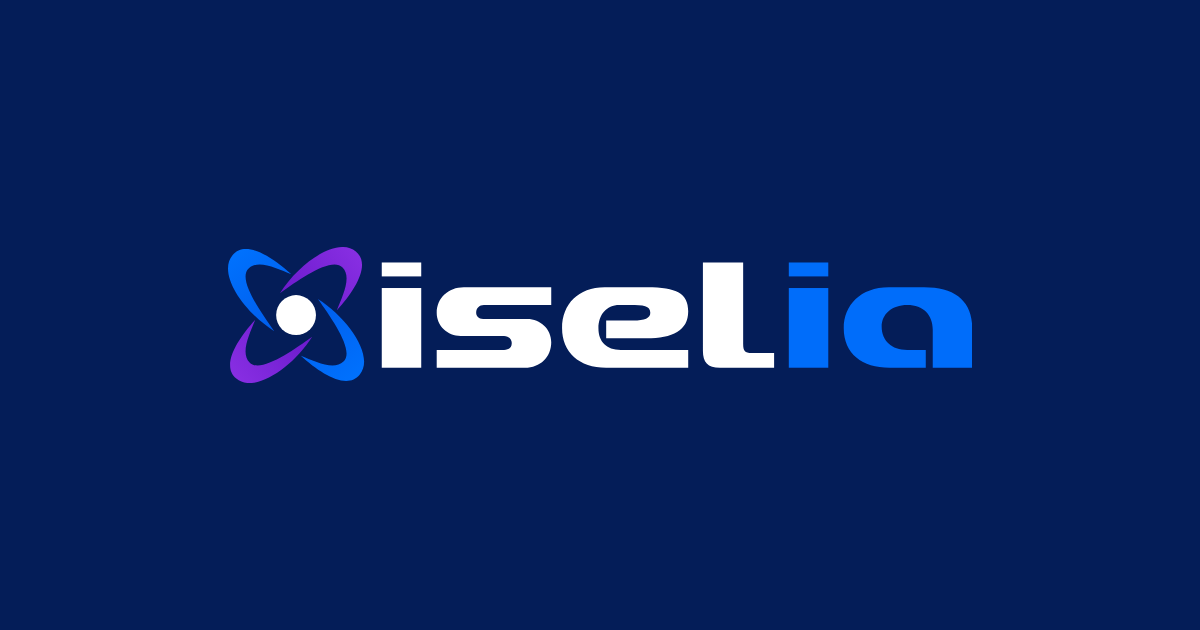
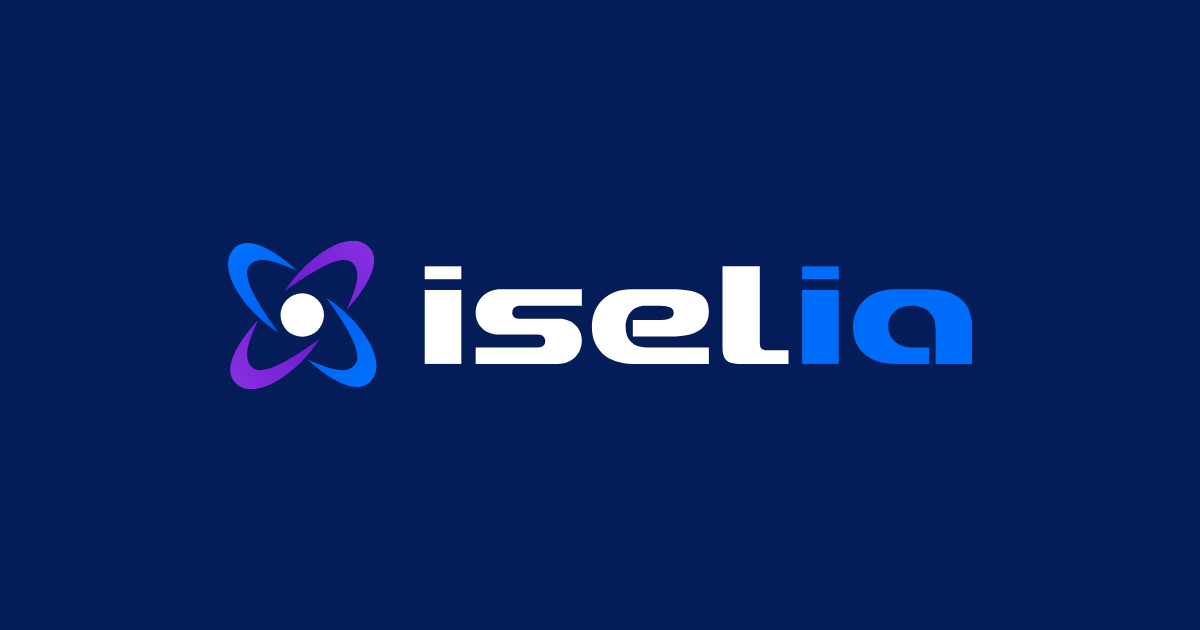
Shrink the wordmark and open the gap in the horizontal lockup
The master's proportions put the wordmark too large and too close to the
pictogram for the owner's taste, so the lockup now shrinks the wordmark
15% relative to the symbol and opens the gap 2.5x.

This is a deliberate departure from the page-5 art, not a new
measurement, and the generator says so: the measured values stay as
SYM_OVER_WM_H_MANUAL and GAP_OVER_SYM_MANUAL, and WM_SHRINK / GAP_FACTOR
are applied on top. Setting both factors to 1 returns to the manual
without recomputing anything.

The lockup ratio moves from 5.4688:1 to 5.0132:1, so the width/height
attributes on all twelve <img> tags across the four pages move with it:
nav 150x30, footer 125x25. Regenerated assets: the three lockup SVGs and
the og:image. The favicons are byte-identical, being symbol-only.

One manual violation goes away with it. The symbol side equals the
lockup height, so the footer at 125px now yields a 25px symbol, above
the 24px floor it was failing at 23px. Mobile at 113px is still under at
22px, up from 21px.

Also fixes the asset build hanging indefinitely. chrome_png pointed HOME
at a temp directory to isolate the browser profile; Chrome hangs forever
initialising a fresh profile on this machine, and does the same with an
explicit --user-data-dir, so any new profile is the trigger, not HOME as
such. With the existing profile it renders in tenths of a second. The
override is gone and a 60s timeout is in place so a hang like that fails
[…]

Changed region(s): [[0.185, 0.3619, 0.8017, 0.6333]]

diff --git a/index.html b/index.html
@@ -130,8 +130,8 @@
 <!-- NAV -->
 <nav id="navbar">
   <a href="#" class="nav-logo" aria-label="Iselia">
-    <img class="logo-light" src="assets/iselia-lockup-horizontal-color.svg" alt="Iselia" width="150" height="27" />
-    <img class="logo-dark" src="assets/iselia-lockup-horizontal-oscuro.svg" alt="" aria-hidden="true" width="150" height="27" />
+    <img class="logo-light" src="assets/iselia-lockup-horizontal-color.svg" alt="Iselia" width="150" height="30" />
+    <img class="logo-dark" src="assets/iselia-lockup-horizontal-oscuro.svg" alt="" aria-hidden="true" width="150" height="30" />
   </a>
   <button class="nav-mobile-btn" id="mobileToggle" aria-label="Menú"><svg xmlns="http://www.w3.org/2000/svg" viewBox="0 0 24 24" fill="none" stroke="currentColor" stroke-width="2" stroke-linecap="round" stroke-linejoin="round" aria-hidden="true"><line x1="4" y1="6" x2="20" y2="6"/><line x1="4" y1="12" x2="20" y2="12"/><line x1="4" y1="18" x2="20" y2="18"/></svg></button>
   <ul class="nav-links" id="navLinks">
@@ -518,7 +518,7 @@
 <!-- FOOTER -->
 <footer>
   <div class="footer-logo">
-    <img src="assets/iselia-lockup-horizontal-mono.svg" alt="Iselia" width="125" height="23" />
+    <img src="assets/iselia-lockup-horizontal-mono.svg" alt="Iselia" width="125" height="25" />
   </div>
   <p data-i18n="footer-copy">© 2026 Iselia Networks, SLU · Todos los derechos reservados</p>
   <p class="footer-legal">

diff --git a/aviso-legal.html b/aviso-legal.html
@@ -67,8 +67,8 @@
 <!-- NAV -->
 <nav id="navbar">
   <a href="index.html" class="nav-logo" aria-label="Iselia">
-    <img class="logo-light" src="assets/iselia-lockup-horizontal-color.svg" alt="Iselia" width="150" height="27" />
-    <img class="logo-dark" src="assets/iselia-lockup-horizontal-oscuro.svg" alt="" aria-hidden="true" width="150" height="27" />
+    <img class="logo-light" src="assets/iselia-lockup-horizontal-color.svg" alt="Iselia" width="150" height="30" />
+    <img class="logo-dark" src="assets/iselia-lockup-horizontal-oscuro.svg" alt="" aria-hidden="true" width="150" height="30" />
   </a>
   <button class="nav-mobile-btn" id="mobileToggle" aria-label="Menú"><svg xmlns="http://www.w3.org/2000/svg" viewBox="0 0 24 24" fill="none" stroke="currentColor" stroke-width="2" stroke-linecap="round" stroke-linejoin="round" aria-hidden="true"><line x1="4" y1="6" x2="20" y2="6"/><line x1="4" y1="12" x2="20" y2="12"/><line x1="4" y1="18" x2="20" y2="18"/></svg></button>
   <ul class="nav-links" id="navLinks">
@@ -141,7 +141,7 @@
 
 <footer>
   <div class="footer-logo">
-    <img src="assets/iselia-lockup-horizontal-mono.svg" alt="Iselia" width="125" height="23" />
+    <img src="assets/iselia-lockup-horizontal-mono.svg" alt="Iselia" width="125" height="25" />
   </div>
   <p data-i18n="footer-copy">© 2026 Iselia Networks, SLU · Todos los derechos reservados</p>
   <p class="footer-legal">

diff --git a/cookies.html b/cookies.html
@@ -67,8 +67,8 @@
 <!-- NAV -->
 <nav id="navbar">
   <a href="index.html" class="nav-logo" aria-label="Iselia">
-    <img class="logo-light" src="assets/iselia-lockup-horizontal-color.svg" alt="Iselia" width="150" height="27" />
-    <img class="logo-dark" src="assets/iselia-lockup-horizontal-oscuro.svg" alt="" aria-hidden="true" width="150" height="27" />
+    <img class="logo-light" src="assets/iselia-lockup-horizontal-color.svg" alt="Iselia" width="150" height="30" />
+    <img class="logo-dark" src="assets/iselia-lockup-horizontal-oscuro.svg" alt="" aria-hidden="true" width="150" height="30" />
   </a>
   <button class="nav-mobile-btn" id="mobileToggle" aria-label="Menú"><svg xmlns="http://www.w3.org/2000/svg" viewBox="0 0 24 24" fill="none" stroke="currentColor" stroke-width="2" stroke-linecap="round" stroke-linejoin="round" aria-hidden="true"><line x1="4" y1="6" x2="20" y2="6"/><line x1="4" y1="12" x2="20" y2="12"/><line x1="4" y1="18" x2="20" y2="18"/></svg></button>
   <ul class="nav-links" id="navLinks">
@@ -125,7 +125,7 @@
 
 <footer>
   <div class="footer-logo">
-    <img src="assets/iselia-lockup-horizontal-mono.svg" alt="Iselia" width="125" height="23" />
+    <img src="assets/iselia-lockup-horizontal-mono.svg" alt="Iselia" width="125" height="25" />
   </div>
   <p data-i18n="footer-copy">© 2026 Iselia Networks, SLU · Todos los derechos reservados</p>
   <p class="footer-legal">

diff --git a/privacidad.html b/privacidad.html
@@ -67,8 +67,8 @@
 <!-- NAV -->
 <nav id="navbar">
   <a href="index.html" class="nav-logo" aria-label="Iselia">
-    <img class="logo-light" src="assets/iselia-lockup-horizontal-color.svg" alt="Iselia" width="150" height="27" />
-    <img class="logo-dark" src="assets/iselia-lockup-horizontal-oscuro.svg" alt="" aria-hidden="true" width="150" height="27" />
+    <img class="logo-light" src="assets/iselia-lockup-horizontal-color.svg" alt="Iselia" width="150" height="30" />
+    <img class="logo-dark" src="assets/iselia-lockup-horizontal-oscuro.svg" alt="" aria-hidden="true" width="150" height="30" />
   </a>
   <button class="nav-mobile-btn" id="mobileToggle" aria-label="Menú"><svg xmlns="http://www.w3.org/2000/svg" viewBox="0 0 24 24" fill="none" stroke="currentColor" stroke-width="2" stroke-linecap="round" stroke-linejoin="round" aria-hidden="true"><line x1="4" y1="6" x2="20" y2="6"/><line x1="4" y1="12" x2="20" y2="12"/><line x1="4" y1="18" x2="20" y2="18"/></svg></button>
   <ul class="nav-links" id="navLinks">
@@ -146,7 +146,7 @@
 
 <footer>
   <div class="footer-logo">
-    <img src="assets/iselia-lockup-horizontal-mono.svg" alt="Iselia" width="125" height="23" />
+    <img src="assets/iselia-lockup-horizontal-mono.svg" alt="Iselia" width="125" height="25" />
   </div>
   <p data-i18n="footer-copy">© 2026 Iselia Networks, SLU · Todos los derechos reservados</p>
   <p class="footer-legal">

diff --git a/styles.css b/styles.css
@@ -170,11 +170,12 @@ nav.scrolled {
    nucleo y "isel" en azul noche. El footer, sobre fondo oscuro, usa la
    monocroma blanca.
    Anchos reducidos un 25% sobre los originales (200/166/150) por peso visual.
-   El simbolo es cuadrado, asi que su lado == alto del lockup == ancho/5.4688:
-     nav    150px -> simbolo 27px  OK (minimo 24px), lockup en "admitido"
-     footer 125px -> simbolo 23px  por debajo del minimo de 24px
-     movil  113px -> simbolo 21px  por debajo, y bajo el suelo de 120px
-   Los dos ultimos incumplen el manual; si molesta, ahi toca el simbolo solo. */
+   El simbolo es cuadrado, asi que su lado == alto del lockup == ancho/5.0132
+   (el ratio cambio al encoger el wordmark y abrir el hueco; ver brand/):
+     nav    150px -> simbolo 30px  OK (minimo 24px), lockup en "admitido"
+     footer 125px -> simbolo 25px  OK
+     movil  113px -> simbolo 22px  por debajo del minimo, y bajo el suelo de 120px
+   Solo el movil incumple el manual; si molesta, ahi toca el simbolo solo. */
 .nav-logo {
   display: inline-grid;
   align-items: center;

diff --git a/brand/build-assets.py b/brand/build-assets.py
@@ -54,8 +54,18 @@ SYM = dict(x=233.00, y=65.00, size=573.67)
 WM = dict(x=60.00, y=760.00, w=919.67, h=163.67)
 
 # Proporciones del lockup horizontal, medidas sobre el arte del manual.
-SYM_OVER_WM_H = 215 / 166
-GAP_OVER_SYM = 28 / 215
+SYM_OVER_WM_H_MANUAL = 215 / 166
+GAP_OVER_SYM_MANUAL = 28 / 215
+
+# Ajuste del propietario sobre esas proporciones: el wordmark del arte maestro
+# se veia grande y pegado al pictograma. Se encoge un 15 % respecto al simbolo
+# y se abre el hueco 2,5 veces. Es una desviacion deliberada del arte de la
+# pagina 5; para volver al manual, poner ambos factores a 1.
+WM_SHRINK = 0.85
+GAP_FACTOR = 2.5
+
+SYM_OVER_WM_H = SYM_OVER_WM_H_MANUAL / WM_SHRINK
+GAP_OVER_SYM = GAP_OVER_SYM_MANUAL * GAP_FACTOR
 
 # Tile de icono (manual p.8 / arte 600x600): simbolo al 60.2 % centrado.
 TILE_SYMBOL_FRAC = 361 / 600
@@ -191,13 +201,17 @@ def chrome_png(markup, w, h, out):
             f'<style>html,body{{margin:0;padding:0;background:transparent}}'
             f'img{{display:block;width:{w}px;height:{h}px}}</style>'
             f'<img src="a.svg">')
+        # Se usa el perfil por defecto de Chrome a proposito. Forzar un perfil
+        # nuevo -con --user-data-dir o apuntando HOME a un temporal- hace que
+        # Chrome se cuelgue indefinidamente en el primer arranque del perfil;
+        # con el perfil existente responde en decimas. El timeout evita que un
+        # cuelgue asi vuelva a dejar el script parado en silencio.
         subprocess.run(
             [CHROME, "--headless", "--disable-gpu", "--no-sandbox",
              "--force-device-scale-factor=1", "--default-background-color=00000000",
              "--hide-scrollbars", f"--window-size={w},{h}",
              f"--screenshot={out}", html],
-            check=True, capture_output=True,
-            env={**os.environ, "HOME": tmp})
+            check=True, capture_output=True, timeout=60)
 
 
 def scale_area(pix, nw, nh):
